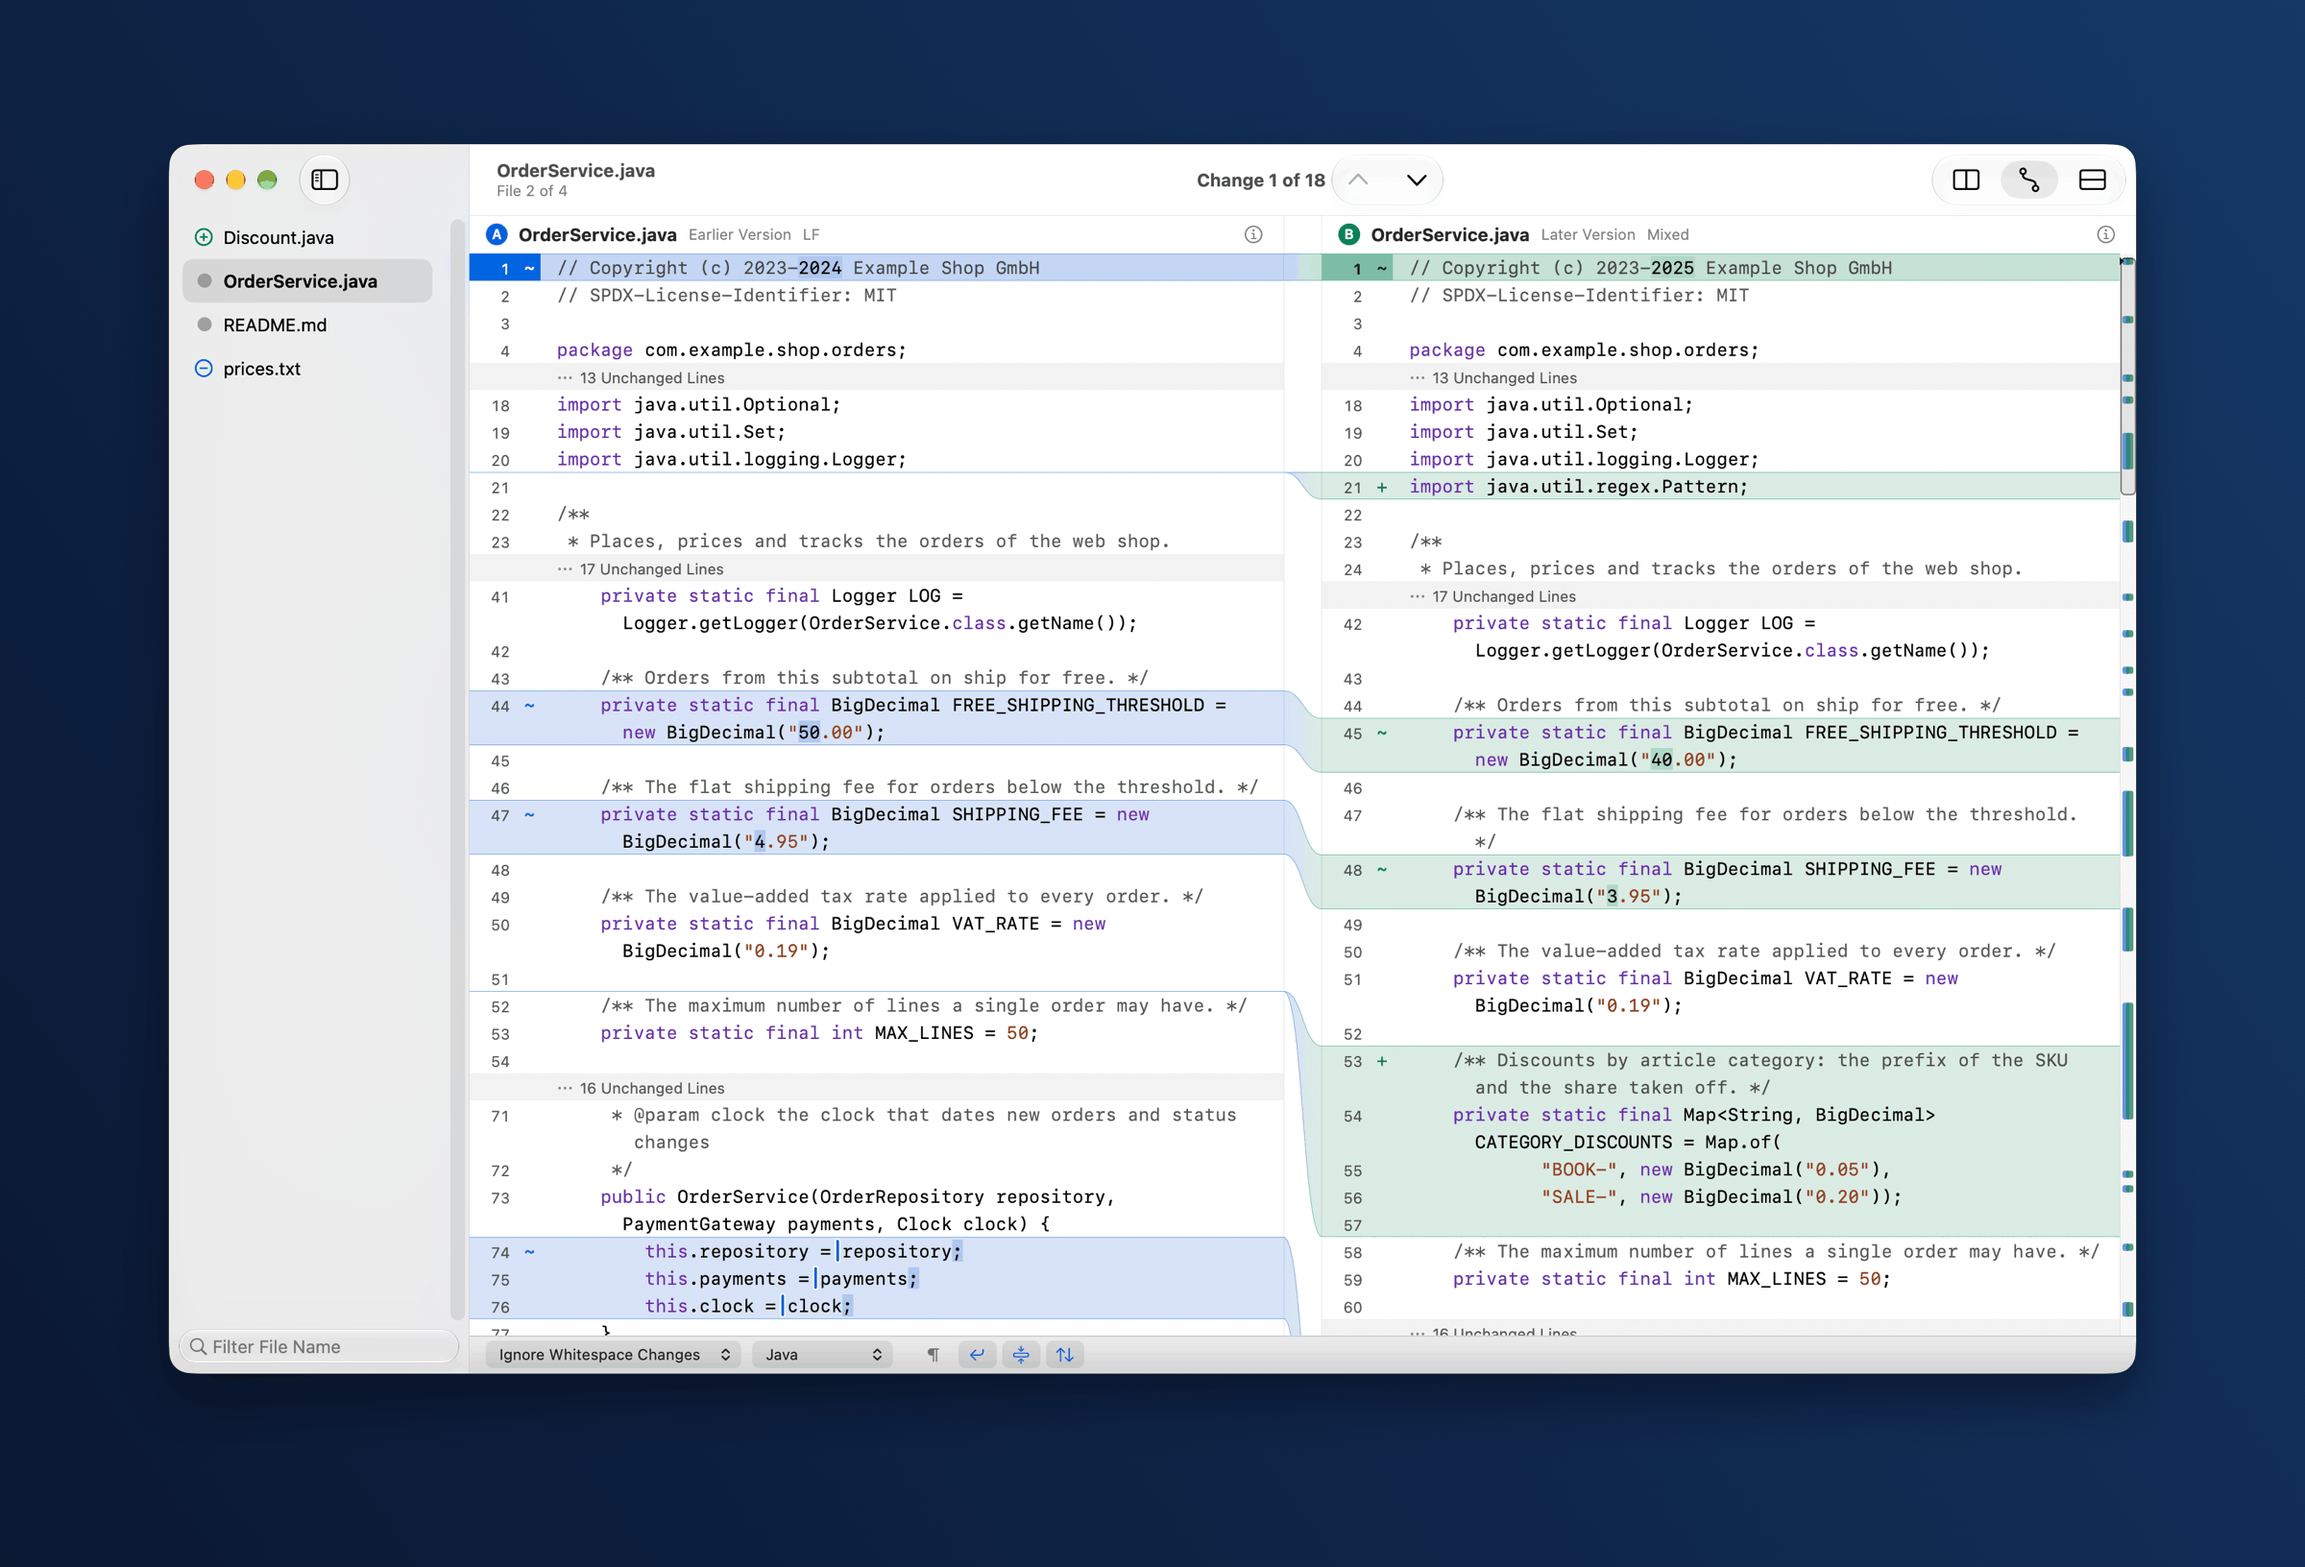
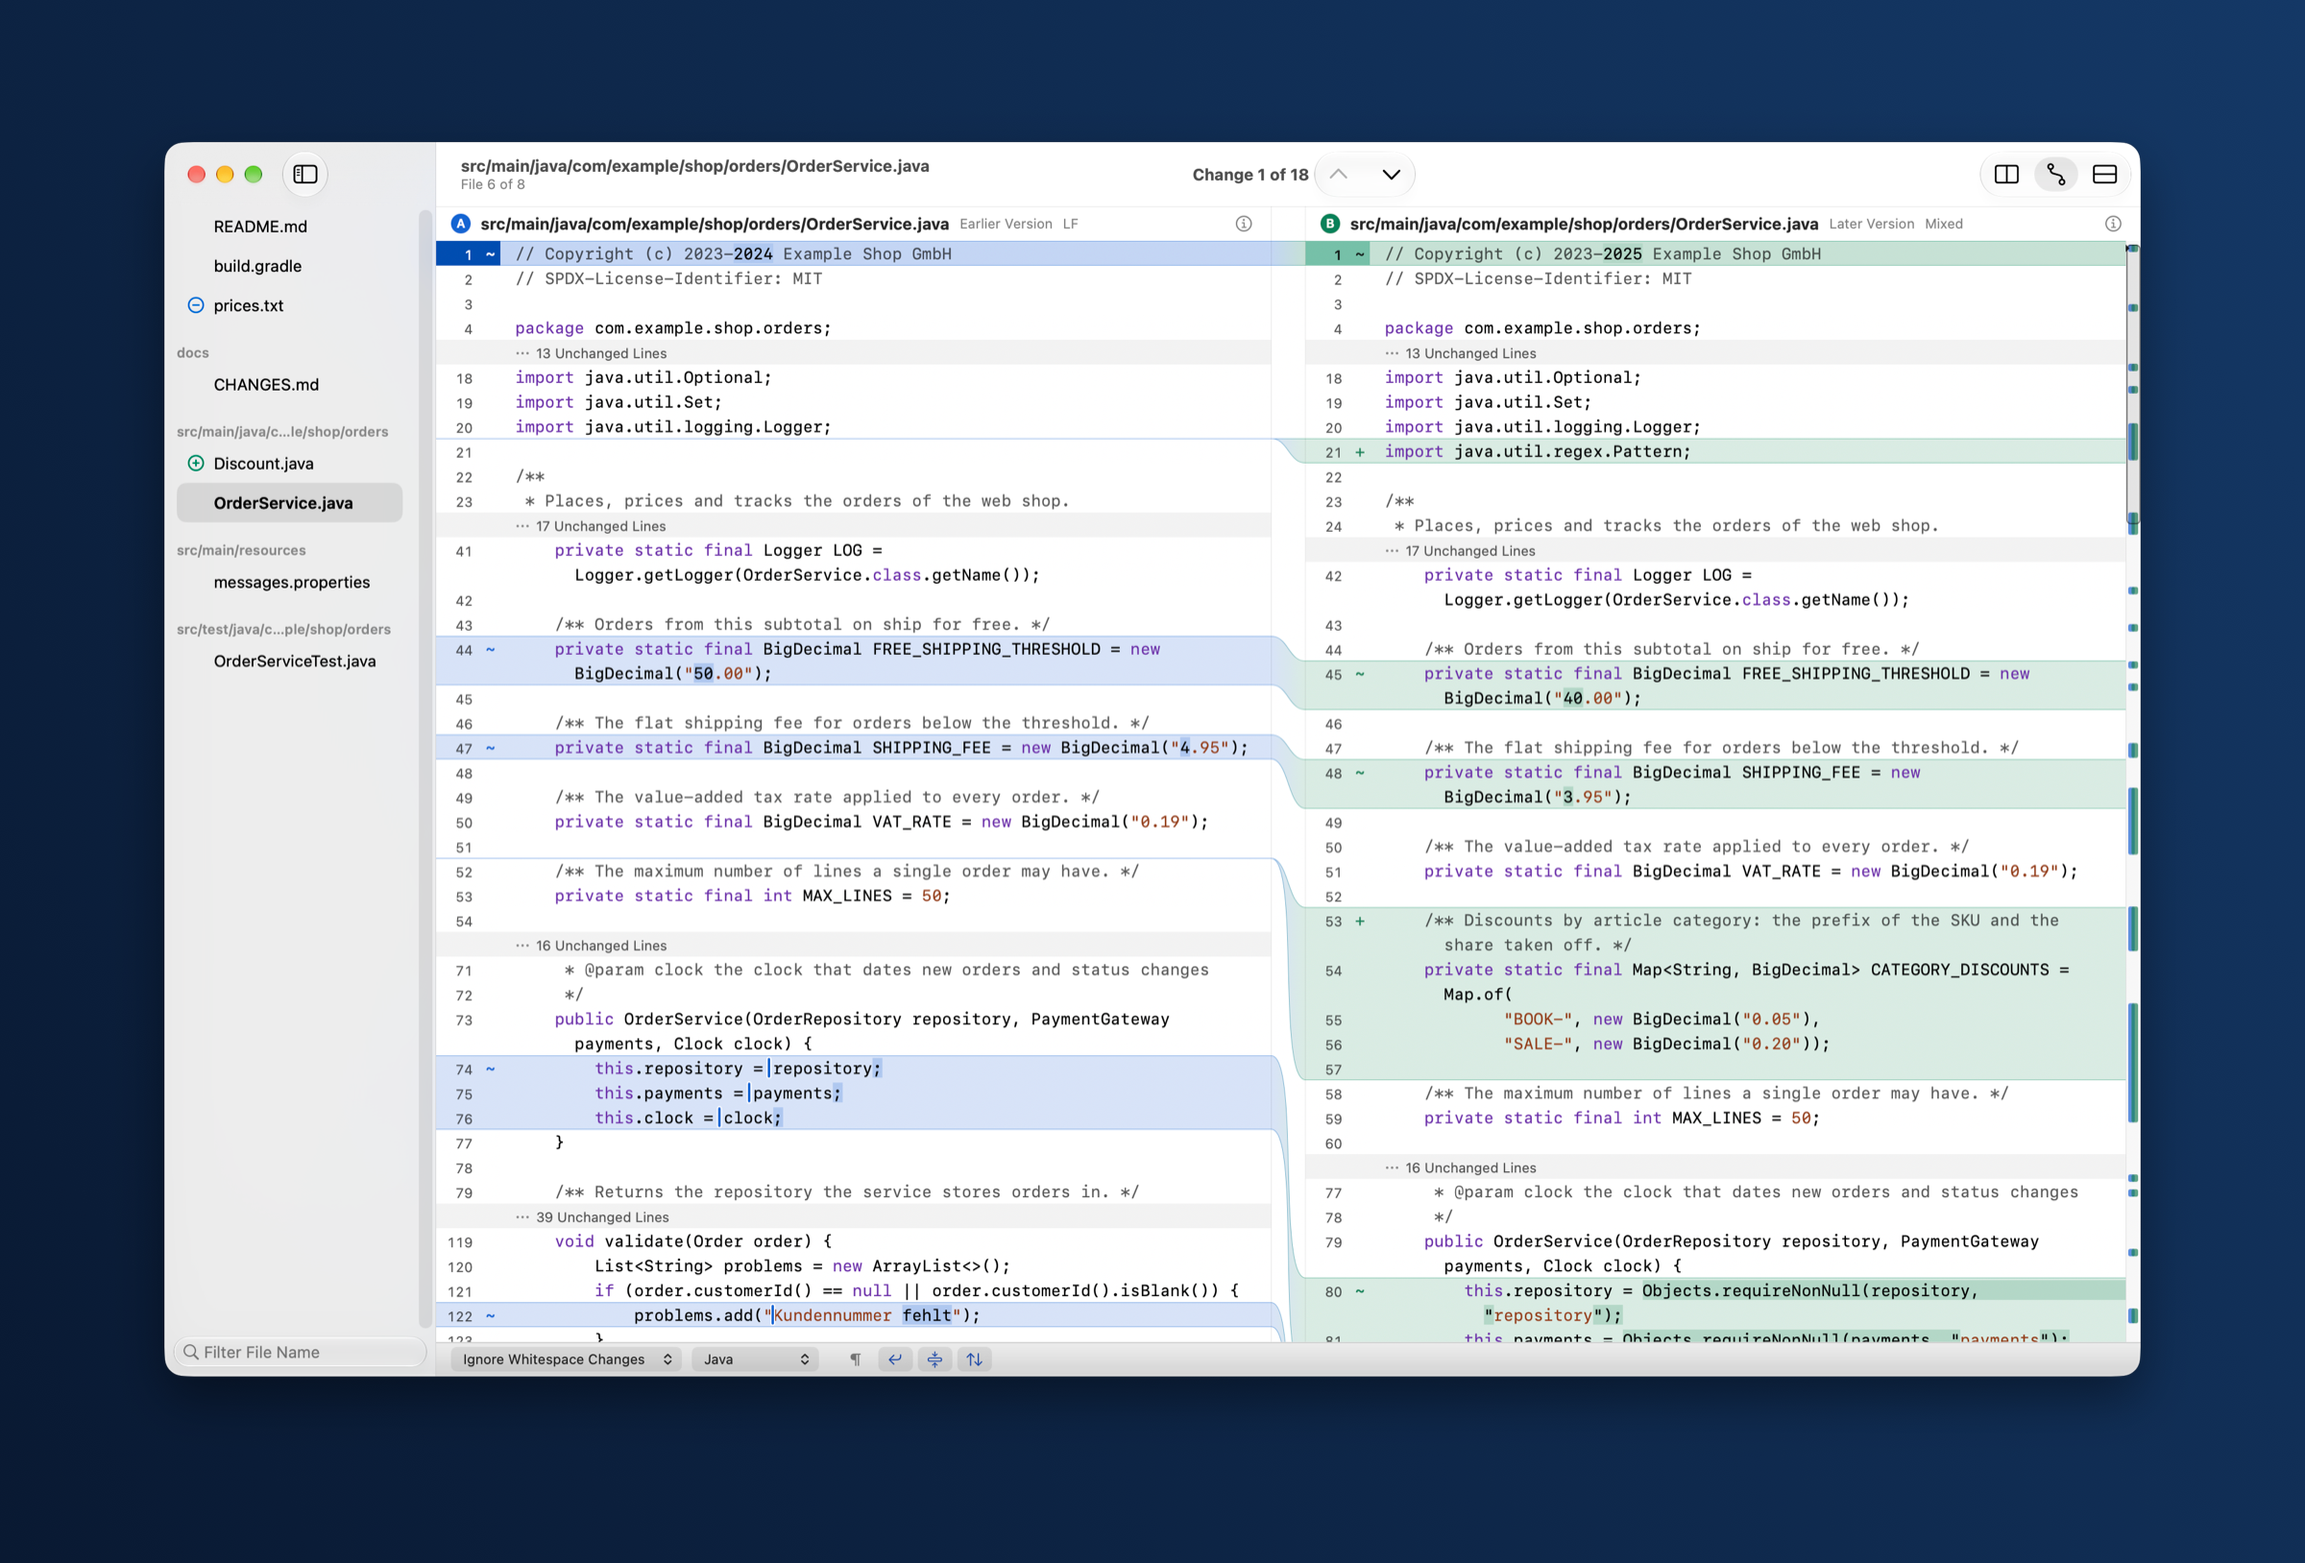
docs: show the file list grouped by folder in the screenshots
Take the pictures of a window of several files and of a comparison of
folders again, with the list grouped by folder, and describe them.

Changed region(s): [[0.0625, 0.0921, 0.9375, 0.8907]]

diff --git a/README.md b/README.md
@@ -29,13 +29,13 @@ Seamerge shows two files side by side, or a three-way merge with its base, and l
 
   <picture>
     <source media="(prefers-color-scheme: dark)" srcset="Documentation/Images/screenshot-collection-dark.png">
-    <img src="Documentation/Images/screenshot-collection-light.png" alt="Several files in one window, with the sidebar listing a new, two changed and a deleted file.">
+    <img src="Documentation/Images/screenshot-collection-light.png" alt="Several files of one commit in one window: the sidebar groups them by folder, with the files of the top folder first and the new and the deleted file marked; the selected file is shown side by side with bands between the sides.">
   </picture>
 - **Compare folders.** File ▸ Compare Folders… compares two folders in one window and lists the files that differ. A filter narrows the list by file name or folder.
 
   <picture>
     <source media="(prefers-color-scheme: dark)" srcset="Documentation/Images/screenshot-folders-dark.png">
-    <img src="Documentation/Images/screenshot-folders-light.png" alt="Two folders compared in one window: the sidebar lists the files that differ, says 7 of 12 files differ and has a field to filter by file name; the selected file is shown side by side with bands between the sides.">
+    <img src="Documentation/Images/screenshot-folders-light.png" alt="Two folders compared in one window: the sidebar groups the files that differ by folder, says 8 of 12 files differ and has a field to filter by file name; the selected file is shown side by side with bands between the sides and arrows to copy a change to the other side.">
   </picture>
 - **Welcome window.** Start a comparison, a comparison of folders or a merge, or open one of the recent comparisons again, grouped into today and earlier. Two files or folders dropped on the window open at once.
 
